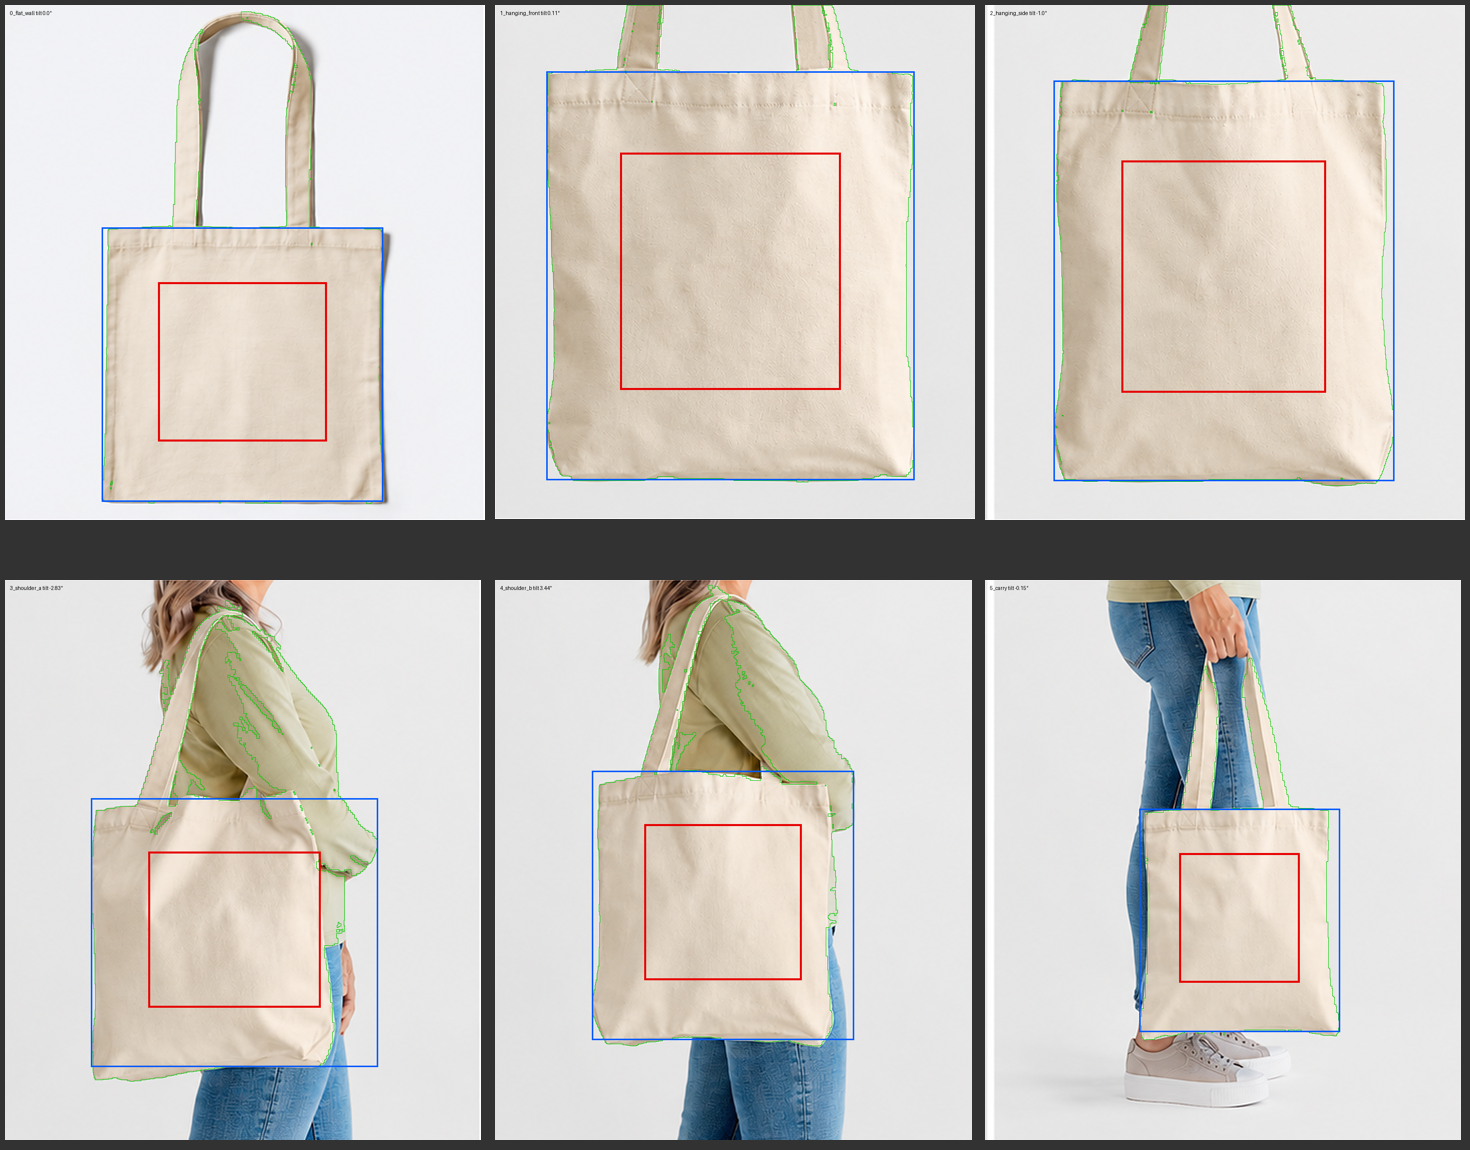
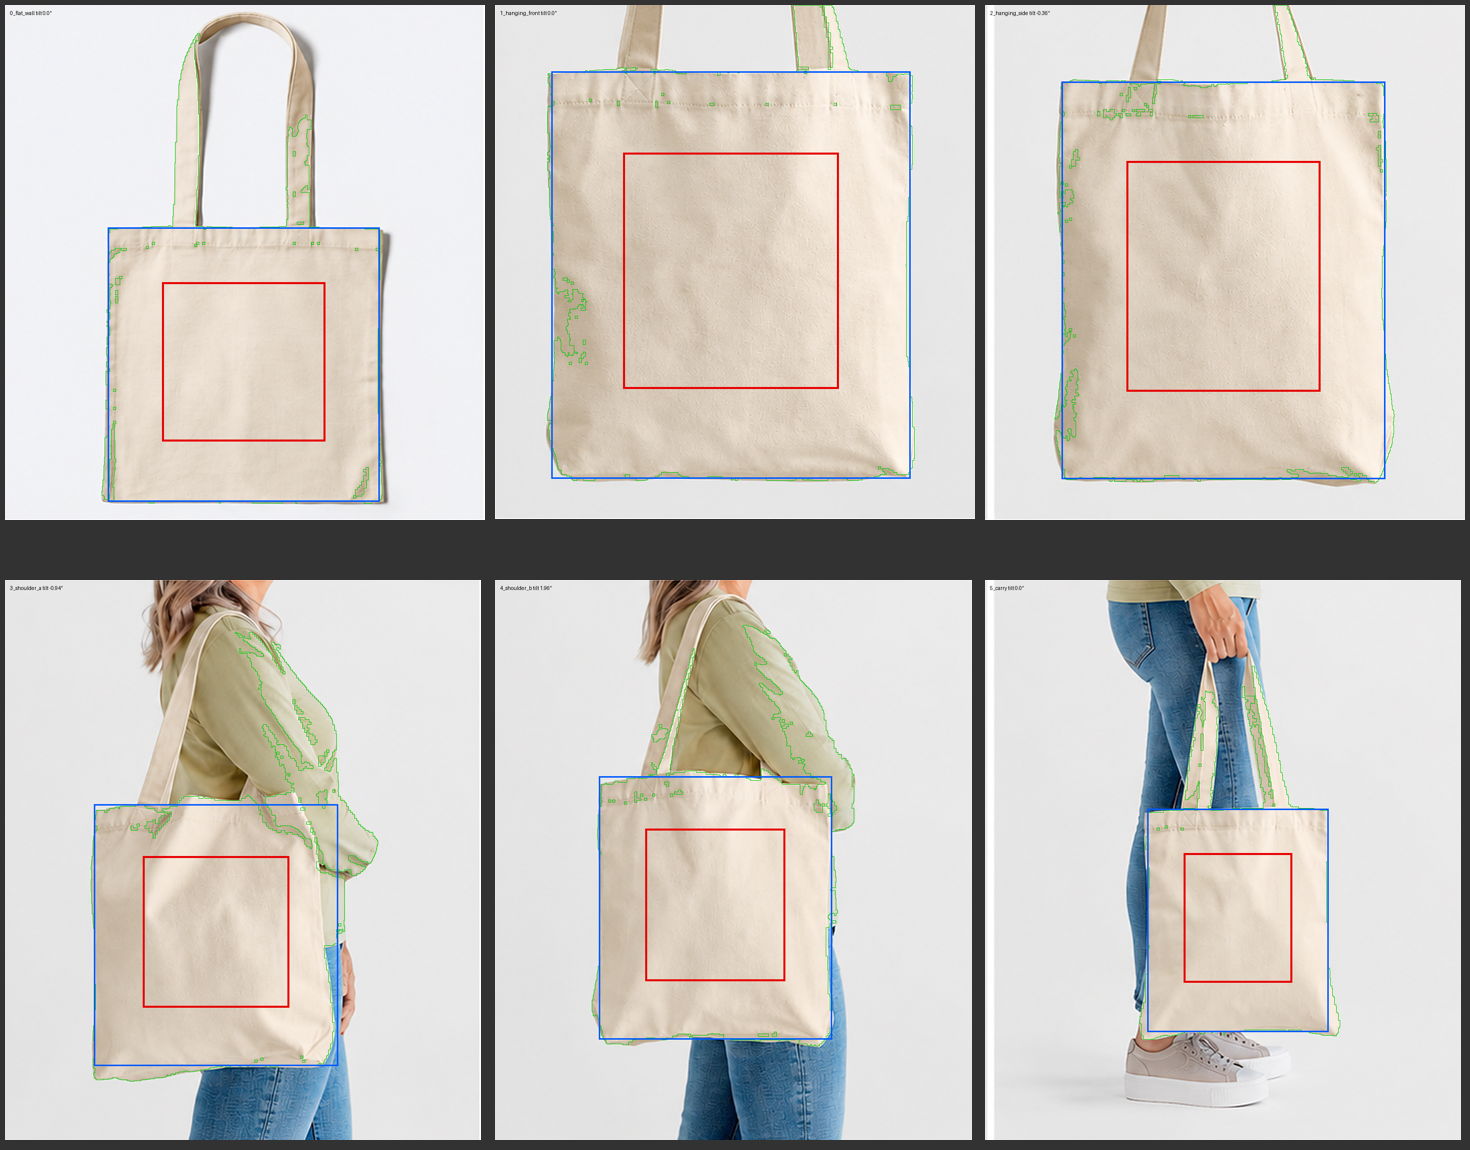
tote_gallery: body edges as row medians (no sleeve drift), ink displaced by the fabric's own folds
- body left/right = median of each wide row's first/last canvas pixel: a sleeve highlight leaking into the mask cannot move the panel; the shoulder view is centred on the bag
- bend_to_fabric(): the blurred luminance of the photograph is the height map; its gradient displaces the drawing, so lines crossing a crease bend with it; multiply carries the shading
- 14 designs × 3 store frames, zero refusals

diff --git a/scripts/store_uploader/tote_gallery.py b/scripts/store_uploader/tote_gallery.py
@@ -69,10 +69,17 @@ def bag_mask(natural_template: Image.Image) -> np.ndarray:
     and greener, jeans blue, skin darker. Then keep the largest blob: the bag body."""
     a = np.asarray(natural_template.convert("RGB")).astype(np.int16)
     r, g, b = a[..., 0], a[..., 1], a[..., 2]
-    warm = ((r - b) > 10) & ((r - b) < 60) & (r > 170) & ((r - g) < 30)
+    # canvas: warm but barely saturated, and bright. The khaki sleeve is more saturated
+    # (r−b ≈ 50) and darker; skin and hair darker still; the wall is neutral.
+    warm = ((r - b) > 10) & ((r - b) < 42) & (r > 168) & ((r - g) < 22)
     m = Image.fromarray((warm * 255).astype(np.uint8))
     m = m.filter(ImageFilter.MinFilter(5)).filter(ImageFilter.MaxFilter(5))
-    arr = np.asarray(m) > 0
+    # fold shadows fall below the brightness gate: fill any hole enclosed by canvas
+    filled = m.convert("RGB")
+    ImageDraw.floodfill(filled, (0, 0), (255, 0, 255), thresh=10)
+    ImageDraw.floodfill(filled, (filled.width - 1, filled.height - 1), (255, 0, 255), thresh=10)
+    f = np.asarray(filled); outside = (f[..., 0] > 200) & (f[..., 1] < 60) & (f[..., 2] > 200)
+    arr = ~outside
     # largest connected component, by a cheap two-pass label on a 4× downsample
     small = np.asarray(m.resize((m.width // 4, m.height // 4), Image.NEAREST)) > 0
     lab = _label(small)
@@ -106,18 +113,26 @@ def body_geometry(mask: np.ndarray) -> dict:
     widths = mask.sum(axis=1)
     wide = np.where(widths >= 0.55 * widths.max())[0]
     top, bottom = int(wide.min()), int(wide.max())
-    cols = np.where(mask[top:bottom + 1].any(axis=0))[0]
-    left, right = int(cols.min()), int(cols.max())
-    # tilt: fit a line through the topmost canvas pixel of each column across the middle 60%
-    xs = np.arange(left + int((right - left) * 0.2), right - int((right - left) * 0.2))
-    ys = []
-    for x in xs:
-        col = np.where(mask[top:bottom + 1, x])[0]
-        ys.append(top + (col.min() if len(col) else 0))
-    ys = np.array(ys, dtype=float)
-    ok = ys > top
-    slope = np.polyfit(xs[ok], ys[ok], 1)[0] if ok.sum() > 10 else 0.0
-    tilt = float(np.degrees(np.arctan(slope)))
+    # left/right: the MEDIAN of each wide row's first and last canvas pixel. A sleeve
+    # highlight leaking into the mask on a few rows cannot move a median.
+    lefts, rights = [], []
+    for y in wide:
+        xs = np.where(mask[y])[0]
+        lefts.append(xs.min()); rights.append(xs.max())
+    left, right = int(np.median(lefts)), int(np.median(rights))
+    # tilt: the top edge of the body, read as the median top-of-canvas in the left
+    # third against the right third of the body (medians ignore the strap roots),
+    # clamped to what a hanging bag can actually do.
+    def top_at(x0, x1):
+        ys = []
+        for x in range(x0, x1):
+            col = np.where(mask[top:bottom + 1, x])[0]
+            if len(col): ys.append(top + col.min())
+        return float(np.median(ys)) if ys else float(top)
+    bw = right - left
+    yl, yr = top_at(left + int(bw * 0.12), left + int(bw * 0.38)), top_at(left + int(bw * 0.62), left + int(bw * 0.88))
+    tilt = float(np.degrees(np.arctan2(yr - yl, bw * 0.5)))
+    tilt = max(-5.0, min(5.0, tilt))
     return {"left": left, "top": top, "right": right, "bottom": bottom, "tilt": round(tilt, 2)}
 
 
@@ -203,6 +218,7 @@ def compose(art: Image.Image, view: str, set_name: str, geo: dict) -> Image.Imag
     if box.shape != alpha.shape or not er[py:py + a.height, px:px + a.width][alpha].all():
         raise RuntimeError(f"{view}: drawing would leave the bag — not written")
 
+    a = bend_to_fabric(a, canvas, px, py)
     layer = Image.new("RGB", canvas.size, (255, 255, 255))
     layer.paste(a.convert("RGB"), (px, py), a.split()[-1])
     mult = ImageChops.multiply(canvas, layer)
@@ -210,6 +226,29 @@ def compose(art: Image.Image, view: str, set_name: str, geo: dict) -> Image.Imag
     m.paste(a.split()[-1].point(lambda v: int(v * INK)), (px, py))
     m = m.filter(ImageFilter.GaussianBlur(0.8))
     return Image.composite(mult, canvas, m)
+
+
+def bend_to_fabric(a: Image.Image, canvas: Image.Image, px: int, py: int, strength: float = 7.0) -> Image.Image:
+    """Ink follows the cloth. The photograph's own luminance, blurred, is the height map
+    of the folds; its gradient displaces the drawing's pixels, so a line crossing a
+    crease bends with it instead of lying flat on top. `strength` is the largest shift
+    in pixels at this template's resolution."""
+    W, H = canvas.size
+    lum = np.asarray(canvas.convert("L").filter(ImageFilter.GaussianBlur(5)), dtype=np.float32) / 255.0
+    gy, gx = np.gradient(lum)
+    g = max(1e-6, float(np.percentile(np.hypot(gx, gy), 99.5)))
+    dx, dy = (gx / g) * strength, (gy / g) * strength
+    aw, ah = a.size
+    ys, xs = np.mgrid[0:ah, 0:aw].astype(np.float32)
+    sx = np.clip(xs - dx[py:py + ah, px:px + aw], 0, aw - 1)
+    sy = np.clip(ys - dy[py:py + ah, px:px + aw], 0, ah - 1)
+    src = np.asarray(a.convert("RGBA")).astype(np.float32)
+    x0, y0 = np.floor(sx).astype(int), np.floor(sy).astype(int)
+    x1, y1 = np.clip(x0 + 1, 0, aw - 1), np.clip(y0 + 1, 0, ah - 1)
+    fx, fy = (sx - x0)[..., None], (sy - y0)[..., None]
+    out = (src[y0, x0] * (1 - fx) * (1 - fy) + src[y0, x1] * fx * (1 - fy)
+           + src[y1, x0] * (1 - fx) * fy + src[y1, x1] * fx * fy)
+    return Image.fromarray(np.clip(out, 0, 255).astype(np.uint8), "RGBA")
 
 
 def slug_of(p: Path) -> str:
@@ -223,10 +262,16 @@ def render(art_path: Path, out_root: Path, frames: list[str], set_name: str, geo
     art = Image.open(art_path)
     d = out_root / slug_of(art_path); d.mkdir(parents=True, exist_ok=True)
     for n, v in enumerate(frames):
-        out = compose(art, v, set_name, geo)
+        try:
+            out = compose(art, v, set_name, geo)
+        except RuntimeError as e:
+            FAILED.append(f"{d.name}: {e}"); print(f"  !! {d.name}: {e}"); continue
         out.save(d / f"{n}_{v.split('_', 1)[1]}.png", optimize=True)
         print(f"  {d.name}/{n}_{v.split('_', 1)[1]}.png {out.size}")
     return d
+
+
+FAILED: list[str] = []
 
 
 def sheet(root: Path, T: int = 300) -> Path:
@@ -263,6 +308,8 @@ def main():
     frames = VIEWS if a.all else (a.frames or DEFAULT_FRAMES)
     for p in paths:
         render(p, Path(a.out) if a.out else p.parent, frames, a.set, geo)
+    if FAILED:
+        print(f"\n{len(FAILED)} frame(s) refused:\n  " + "\n  ".join(FAILED)); return 1
     return 0
 
 
